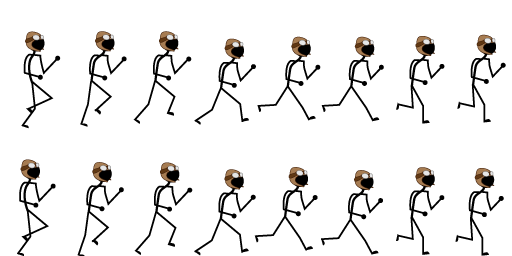
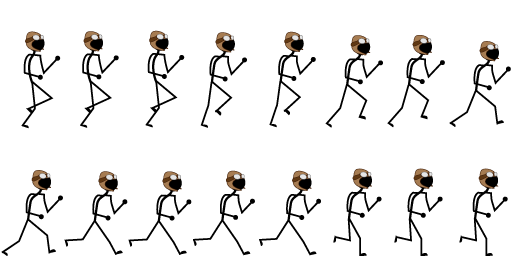
Created hasGroundContact
Problem of joe restitution.

diff --git a/RunningJoe/src/efficom/runningjoe/core/Joe.java b/RunningJoe/src/efficom/runningjoe/core/Joe.java
@@ -19,9 +19,9 @@ import com.badlogic.gdx.graphics.g2d.Animation;
 public class Joe extends AbstractGraphicItem {
 	static final char JUMP_COUNT = 2;
 	private enum MoveState{JUMPING, RUNNING};
-	static final float DENSITY = 0.3f;
-	static final float FRICTION = 0.3f;
-	static final float RESTITUTION = 0.1f;
+	static final float DENSITY = 0.5f;
+	static final float FRICTION = 0.5f;
+	static final float RESTITUTION = 0.0f;
 	static final float JUMP_FORCE = 3.0f;
 	static final float INITIAL_SPEED = 1;
     static final int FRAME_WIDTH = 64;
@@ -45,7 +45,7 @@ public class Joe extends AbstractGraphicItem {
 	 * @param world
 	 */
 	public Joe(RjWorld world){		
-		super(world, "Joe");
+		super(world, "Joe", GraphicItemType.JOE);
 		
 		this.sprite = new Sprite(new Texture(
 				Gdx.files.internal("images/standingjoe.png")));
@@ -53,11 +53,9 @@ public class Joe extends AbstractGraphicItem {
 		initPos = new Vector2(
 	    		RunningJoe.SCREEN_WIDTH* 0.75f,
 	    		RjBlock.BLOCK_HEIGHT*10);
-		
-		//joelight = new PointLight(world.getRayHandler(), 5, new Color(0.5f,0.5f,0.5f,0.8f), 1, 0, 0);
-		//joelight.attachToBody(this.body, 0.0f, 0.0f);
-		
+
 		//this.createStandingJoe();
+        this.createBody();
         this.createRunningJoe();
 	}
 	
@@ -65,27 +63,24 @@ public class Joe extends AbstractGraphicItem {
 	 * Create the standing joe representation
 	 */
 	private void createStandingJoe() {
-	    // Create the body and fixture
-	    CreateBody(initPos,0,BodyType.DynamicBody, true);	      
-	    LoadFixture("data/joe.json","StandingJoe", DENSITY, FRICTION, RESTITUTION,BODY_WIDTH);
 	    
 	    // Create the Texture
 	    TextureRegion region = new TextureRegion(new Texture(Gdx.files.internal("images/standingjoe.png")));
 	    LoadTexture(region, new Vector2(0,0));
-	    
-	    infos = new GraphicItemInfos("Joe");
-	    this.body.setUserData(infos);
 	}
+
+    private void createBody()
+    {
+        // Create the body and fixture
+        CreateBody(initPos,0,BodyType.DynamicBody, true);
+        LoadFixture("data/joe.json", "StandingJoe",DENSITY, FRICTION, RESTITUTION,BODY_WIDTH);
+    }
 
 	/**
 	 * Create the standing joe representation
 	 */
 	private void createRunningJoe()
 	{
-        // Create the body and fixture
-        CreateBody(initPos,0,BodyType.DynamicBody, true);
-        LoadFixture("data/joe.json", "StandingJoe",DENSITY, FRICTION, RESTITUTION,BODY_WIDTH);
-
         // Create the Texture
         this.animationFrames = createFrames(
                 new Texture(Gdx.files.internal("images/runningjoe.png")),
@@ -94,11 +89,7 @@ public class Joe extends AbstractGraphicItem {
                 FRAME_WIDTH,
                 FRAME_HEIGHT);
 
-        //TextureRegion region = new TextureRegion(new Texture(Gdx.files.internal("images/runningjoe.png")), 0, 0, FRAME_WIDTH, FRAME_HEIGHT);
         LoadTexture(this.animationFrames[0], new Vector2(0,0));
-
-        infos = new GraphicItemInfos("Joe");
-        this.body.setUserData(infos);
 	}
 
     /**
@@ -133,8 +124,17 @@ public class Joe extends AbstractGraphicItem {
 	@SuppressWarnings("unused")
 	private void createJumpingJoe()
 	{
-		
-	}
+        // Create the Texture
+        this.animationFrames = createFrames(
+                new Texture(Gdx.files.internal("images/jumpingjoe.png")),
+                FRAME_ROWS,
+                FRAME_COLS,
+                FRAME_WIDTH,
+                FRAME_HEIGHT);
+
+        LoadTexture(this.animationFrames[0], new Vector2(0,0));
+
+    }
 	
 	/*
 	 * 
@@ -145,7 +145,7 @@ public class Joe extends AbstractGraphicItem {
 		Vector2 pos = this.body.getPosition();
     	Vector2 vel = new Vector2(0, JUMP_FORCE);        
         
-        if(this.jumpCount > 0) {
+        if(this.moveState != MoveState.JUMPING) {
         	this.jumpCount--;
             System.out.println("jump before: " + body.getLinearVelocity());
     		body.applyLinearImpulse(vel, pos);			
@@ -178,7 +178,7 @@ public class Joe extends AbstractGraphicItem {
 			 * they are differents change frixion fixture
 			 */		
 			MoveState oldState = this.moveState;
-			this.moveState = this.hasContact() ? MoveState.RUNNING : MoveState.JUMPING;
+			this.moveState = this.hasGroundContact() ? MoveState.RUNNING : MoveState.JUMPING;
 
             stateTime += Gdx.graphics.getDeltaTime();
             TextureRegion region = animation.getKeyFrame(stateTime, true);
@@ -189,15 +189,18 @@ public class Joe extends AbstractGraphicItem {
 			if( oldState != this.moveState){
 				// if came back to the ground
 				if(this.moveState == MoveState.RUNNING){
-					for(Fixture fix : body.getFixtureList())
-		        		fix.setFriction(1.0f);				
+					//for(Fixture fix : body.getFixtureList())
+		        	//	fix.setFriction(1.0f);
+
+                    this.createRunningJoe();
 					
 					// Reset the number of jump
 					this.jumpCount = JUMP_COUNT;
 				// if start jumping
 				}else{
-					for(Fixture fix : body.getFixtureList())
-		        		fix.setFriction(0.0f);
+                    createJumpingJoe();
+					//for(Fixture fix : body.getFixtureList())
+		        	//	fix.setFriction(0.0f);
 				}
 				
 				Gdx.app.log(RunningJoe.LOG, "Move has change from " + oldState + " to " + this.moveState);

diff --git a/RunningJoe/src/efficom/runningjoe/core/AbstractGraphicItem.java b/RunningJoe/src/efficom/runningjoe/core/AbstractGraphicItem.java
@@ -17,6 +17,7 @@ import com.badlogic.gdx.physics.box2d.BodyDef.BodyType;
 import com.badlogic.gdx.physics.box2d.Contact;
 import com.badlogic.gdx.physics.box2d.Fixture;
 import efficom.runningjoe.RunningJoe;
+import com.badlogic.gdx.physics.box2d.Shape;
 
 public abstract class AbstractGraphicItem implements IDrawable, IRenderable{
     public enum Position{TOP, LEFT, BOTTOM, RIGHT}
@@ -34,9 +35,9 @@ public abstract class AbstractGraphicItem implements IDrawable, IRenderable{
 	 * @param world RjWorld object the Graphic Item belongs to
 	 * @param name Name of the Graphic Item
 	 */
-	public AbstractGraphicItem(RjWorld world, String name){
+	public AbstractGraphicItem(RjWorld world, String name, GraphicItemType type){
 		this.world = world;
-        infos = new GraphicItemInfos(name);
+        infos = new GraphicItemInfos(name, type);
 	}
 	
 	/**
@@ -52,8 +53,11 @@ public abstract class AbstractGraphicItem implements IDrawable, IRenderable{
 	    bodyDef.position.set(ConvertToBox(pos.x),ConvertToBox(pos.y));
 	    bodyDef.angle=angle;
 	    bodyDef.fixedRotation = rot;
+
 	    body = world.getWorld().createBody(bodyDef);
         body.setUserData(this.infos);
+
+
 	}
 	
 	public void CreateBody(Vector2 pos,float angle, BodyType bodyType){
@@ -65,16 +69,18 @@ public abstract class AbstractGraphicItem implements IDrawable, IRenderable{
      * @param dens  Density from 0 to 1
      * @param fric  Friction from 0 to 1
      * @param rest  Restitution from à to 1
-     * @param width The width of the element
      */
-    /*public void CreateFixture(Shape shape, float dens, float fric, float rest, float width)
+    public void CreateFixture(Shape shape, float dens, float fric, float rest)
     {
         // Create a FixtureDef
         FixtureDef fd = new FixtureDef();
         fd.density = dens;
         fd.friction = fric;
         fd.restitution = rest;
-    } */
+        fd.shape = shape;
+
+        this.body.createFixture(fd);
+    }
 	
 	/***
 	 * Load fixture from a file
@@ -172,6 +178,33 @@ public abstract class AbstractGraphicItem implements IDrawable, IRenderable{
         
         return hasContact;
 	}
+
+    public boolean hasGroundContact()
+    {
+        boolean touch = false;
+
+        Iterator<Contact> it = RunningJoe.getInstance().getWorld().getWorld().getContactList().iterator();
+        while(it.hasNext() && !touch){
+            Contact item = it.next();
+
+            Fixture fA = item.getFixtureA();
+            Fixture fB = item.getFixtureB();
+
+            if((fB.getBody() == body || fA.getBody() == body)){
+                GraphicItemInfos infos;
+
+                if(fB.getBody() == body)
+                    infos = (GraphicItemInfos) fA.getBody().getUserData();
+                else
+                    infos = (GraphicItemInfos) fB.getBody().getUserData();
+
+                if(infos != null && infos.getType() == GraphicItemType.GROUND)
+                    touch = true;
+            }
+        }
+
+        return touch;
+    }
 
     /**
      * Return true item is out of screen

diff --git a/RunningJoe/src/efficom/runningjoe/core/RjBlock.java b/RunningJoe/src/efficom/runningjoe/core/RjBlock.java
@@ -9,7 +9,7 @@ import com.badlogic.gdx.graphics.Texture;
 
 /**
  * 
- * Class witch represents blocks for the ground or the roof of the game.
+ * Class witch represents blocks for the ground of the game.
  * 
  * @author Sylvain MERLIN
  */
@@ -34,7 +34,7 @@ public class RjBlock extends AbstractGraphicItem {
 	 * @param name Name of the Graphic Item
 	 */
 	public RjBlock(RjWorld world, String name, int blockNumber) {
-		super(world, name);
+		super(world, name, GraphicItemType.GROUND);
 
 		try{
 			this.blockNumber = blockNumber;
@@ -54,7 +54,7 @@ public class RjBlock extends AbstractGraphicItem {
                 BLOCK_HEIGHT * 6);
 		
 		this.body = null;
-		infos = new GraphicItemInfos(name);
+		infos = new GraphicItemInfos(name, GraphicItemType.GROUND);
 		
 	}
 	
@@ -66,20 +66,14 @@ public class RjBlock extends AbstractGraphicItem {
 	 */
 	public void generateRandomBlock(float position)
     {
-		BodyDef groundBodyDef = new BodyDef();
-		groundBodyDef.position.set(new Vector2(ConvertToBox(position), ConvertToBox(BLOCK_HEIGHT)));
-		this.body = this.world.getWorld().createBody(groundBodyDef);
-		
-		//CreateBody(new Vector2(position, 100), 0, BodyDef.BodyType.DynamicBody);
+		CreateBody(new Vector2(position, ConvertToBox(BLOCK_HEIGHT)), 0, BodyDef.BodyType.StaticBody);
+
 		PolygonShape groundBox = new PolygonShape();
 		groundBox.setAsBox(RunningJoe.PixToMeter(BLOCK_WIDTH), RunningJoe.PixToMeter(BLOCK_HEIGHT));
-		this.body.createFixture(groundBox, 0.0f);
+        CreateFixture(groundBox, 0.5f, 0.5f,0.5f);
 		
 		LoadTexture(this.texture, new Vector2(0,0));
-		GraphicItemInfos infosFloor = new GraphicItemInfos("Floor "+position);
-		this.body.setUserData(infosFloor);
 	}
-
 	
 	/**
 	 * Method to get the position of the block in the world.

diff --git a/RunningJoe/src/efficom/runningjoe/RunningJoe.java b/RunningJoe/src/efficom/runningjoe/RunningJoe.java
@@ -31,7 +31,7 @@ public class RunningJoe extends Game
     public static RunningJoe instance;
 
     // whether we are in development mode
-    public static final boolean DEV_MODE = false;
+    public static final boolean DEV_MODE = true;
     public static Box2DDebugRenderer debugRenderer;
 
     // a libgdx helper class that logs the current FPS each second
@@ -48,8 +48,6 @@ public class RunningJoe extends Game
     public static RunningJoe getInstance(){return instance;}
     
     public RjWorld getWorld(){return this.world;}
-    
-
     
     // Game-related methods
 
@@ -85,7 +83,7 @@ public class RunningJoe extends Game
 		
     /**
      * Convert Meters to pixels
-     * @param meters
+     * @param meters The meters to convert in px
      * @return
      */
 	public static float MeterToPix(float meters)

diff --git a/RunningJoe/src/efficom/runningjoe/core/RjObstacle.java b/RunningJoe/src/efficom/runningjoe/core/RjObstacle.java
@@ -32,7 +32,7 @@ public class RjObstacle extends AbstractGraphicItem {
      * @param name  Name of the Graphic Item
      */
     public RjObstacle(RjWorld world, String name) {
-        super(world, name);
+        super(world, name, GraphicItemType.OBSTACLE);
         this.name = name;
     }
 
@@ -50,10 +50,6 @@ public class RjObstacle extends AbstractGraphicItem {
                 Gdx.files.internal("images/obstacles/"+name+".png")));
         System.out.println(this.img);
         LoadTexture(region, new Vector2(this.width/2,this.width/2),this.getScale(),this.getScale());
-
-        infos = new GraphicItemInfos(this.img);
-        this.body.setUserData(infos);
-
     }
 
     public void drawObstacle(SpriteBatch spriteBatch){

diff --git a/RunningJoe/src/efficom/runningjoe/core/GraphicItemInfos.java b/RunningJoe/src/efficom/runningjoe/core/GraphicItemInfos.java
@@ -6,11 +6,14 @@ package efficom.runningjoe.core;
  * @author Guillaume BAILLEUL
  */
 public class GraphicItemInfos {
-    String name;
+    private String name;
+    private GraphicItemType type;
+
 	
-	public GraphicItemInfos(String name)
+	public GraphicItemInfos(String name, GraphicItemType type)
 	{
-		this.name = name;		
+		this.name = name;
+        this.type = type;
 	}
 
     public String getName() {
@@ -20,4 +23,6 @@ public class GraphicItemInfos {
     public void setName(String name) {
         this.name = name;
     }
+
+    public GraphicItemType getType(){return this.type;}
 }

diff --git a/RunningJoe/src/efficom/runningjoe/core/RjBlockList.java b/RunningJoe/src/efficom/runningjoe/core/RjBlockList.java
@@ -43,7 +43,7 @@ public class RjBlockList implements IRenderable{
             int indexBlock = blockCounter++;
             RjBlock groundBody = new RjBlock(this.world, "Floor "+ posX, indexBlock);
             groundBody.generateRandomBlock(posX);
-            Gdx.app.log(RunningJoe.LOG, "Created block: " + posX + " number " + indexBlock );
+            //Gdx.app.log(RunningJoe.LOG, "Created block: " + posX + " number " + indexBlock );
 
             this.groundBlocks.addLast(groundBody);
             lastBlockX = this.groundBlocks.getLast().getPosition().x;

diff --git a/RunningJoe/src/efficom/runningjoe/core/Bonus.java b/RunningJoe/src/efficom/runningjoe/core/Bonus.java
@@ -34,7 +34,7 @@ public class Bonus extends AbstractGraphicItem {
 	 * @param name Name of the Graphic Item
 	 */
 	public Bonus(RjWorld world, String name) {
-		super(world, name);
+		super(world, name, GraphicItemType.BONUS);
 		// TODO Auto-generated constructor stub
 	}
 	

diff --git a/RunningJoe/src/efficom/runningjoe/core/GraphicItemType.java b/RunningJoe/src/efficom/runningjoe/core/GraphicItemType.java
@@ -1,0 +1,8 @@
+package efficom.runningjoe.core;
+
+/**
+ * Determine the graphic itemtype
+ *
+ * @author Guillaume BAILLEUL
+ */
+public enum GraphicItemType{GROUND, JOE, OBSTACLE,BONUS, UNKNOWN}
